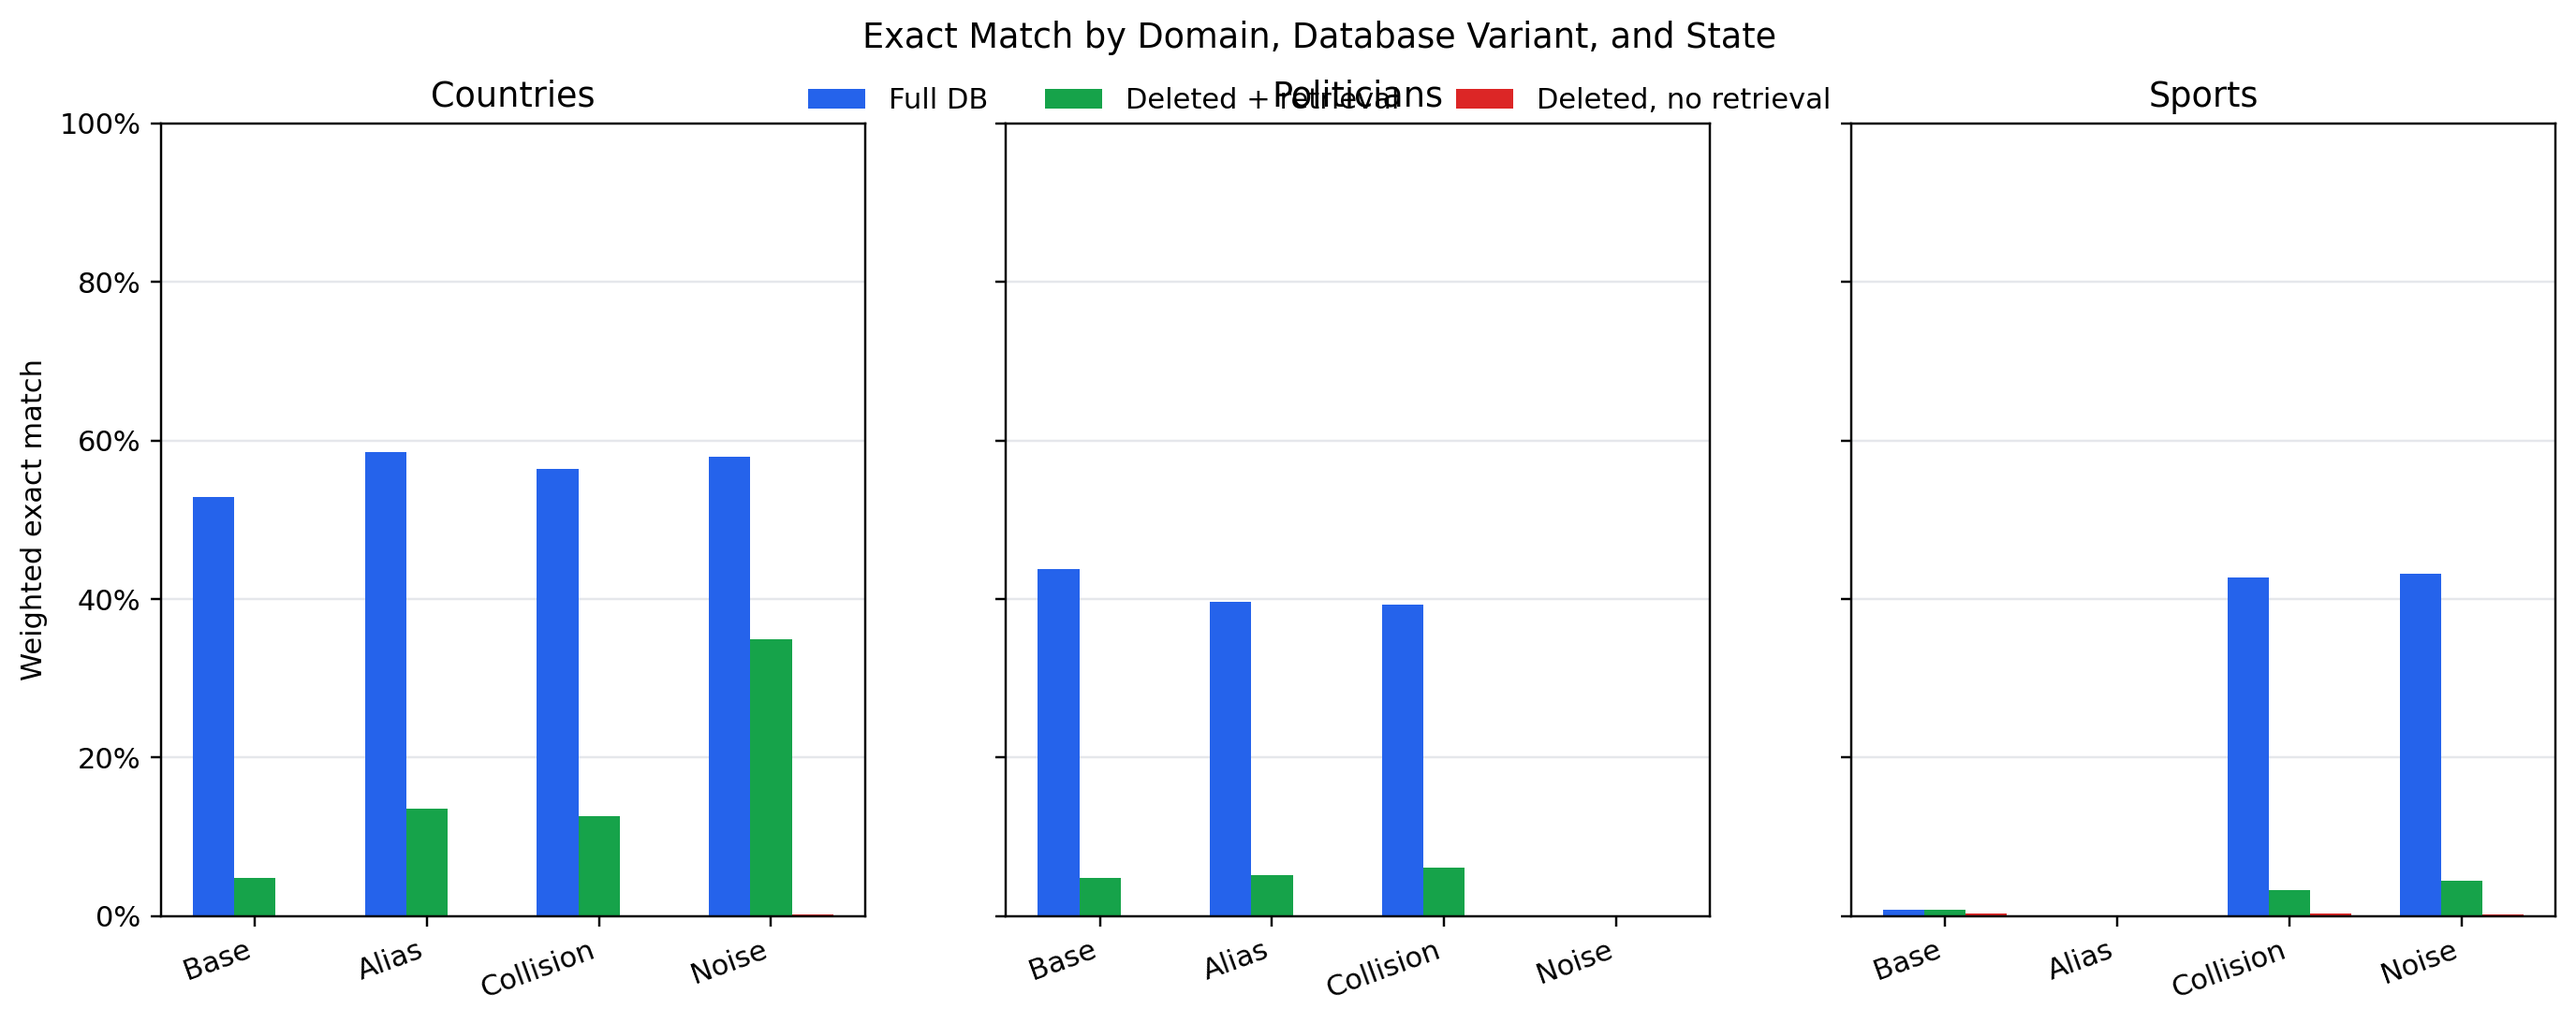
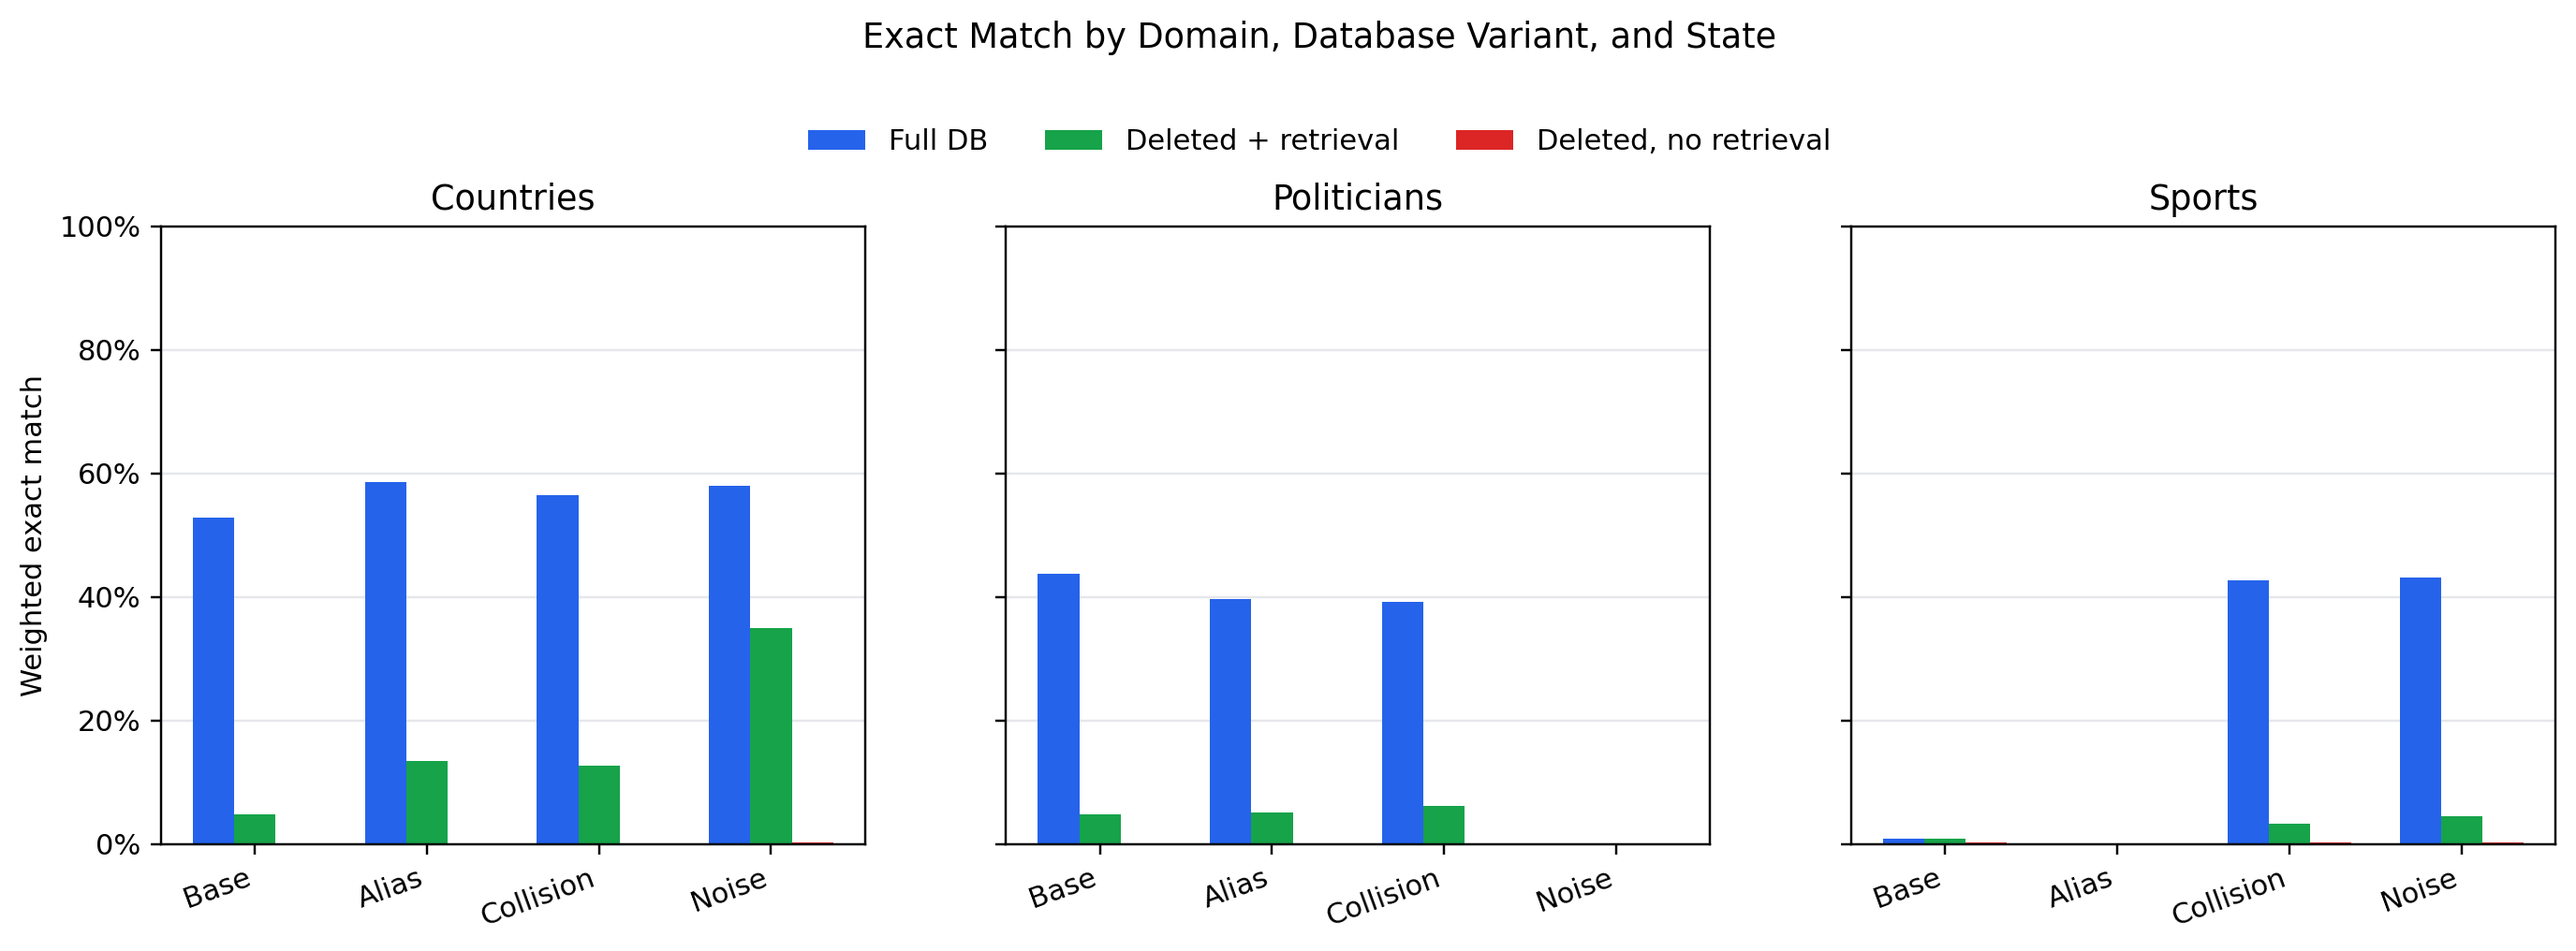
fixed plot overlap

diff --git a/scripts/plot_audit_results.py b/scripts/plot_audit_results.py
@@ -256,9 +256,10 @@ def plot_domain_variant_state_accuracy(
         percent_axis(ax)
 
     axes[0].set_ylabel("Weighted exact match")
+    fig.subplots_adjust(top=0.78, bottom=0.18, wspace=0.20)
     fig.suptitle("Exact Match by Domain, Database Variant, and State", y=0.98)
     handles, labels = axes[-1].get_legend_handles_labels()
-    fig.legend(handles, labels, frameon=False, ncol=3, loc="upper center", bbox_to_anchor=(0.5, 0.94))
+    fig.legend(handles, labels, frameon=False, ncol=3, loc="upper center", bbox_to_anchor=(0.5, 0.90))
     save_figure(fig, output_dir, "exact_match_by_domain_variant_state", tight=False)
 
 
